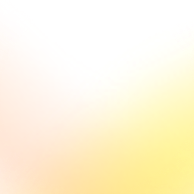
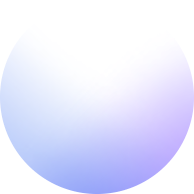
优化进度环颜色自然过渡、装饰弧两端淡出、失败态红块高度折叠到单行

diff --git a/index.html b/index.html
@@ -46,7 +46,7 @@
     width: 750px;
     height: 422px;
     left: 0;
-    top: 442px;
+    top: 544px;
     object-fit: cover;
     background: #000;
   }
@@ -262,8 +262,8 @@
 
   /* 互动标题横幅 */
   .interact-title {
-    width: 622px;
-    left: 64px;
+    width: 750px;
+    left: 0;
     top: 903px;
     padding: 16px 24px;
     box-sizing: border-box;
@@ -289,11 +289,14 @@
     font-size: 34px;
     font-weight: 500;
     line-height: 46px;
-    transition: opacity 300ms ease;
+    min-height: 0;
+    max-height: 200px;
+    overflow: hidden;
+    transition: opacity 300ms ease, max-height 300ms ease;
   }
   .it-orig { opacity: 1; }
   .it-fail { opacity: 0; }
-  .interact-title.fail .it-orig { opacity: 0; }
+  .interact-title.fail .it-orig { opacity: 0; max-height: 0; }
   .interact-title.fail .it-fail { opacity: 1; }
 
   /* 长按组件 */
@@ -347,8 +350,8 @@
     top: 14.375px;
     border-radius: 50%;
     background: conic-gradient(from var(--start),
-        rgba(255, 219, 187, 0.30) 0deg,
-        rgba(255, 219, 187, 0.30) var(--arc),
+        rgba(255, 255, 255, 0.12) 0deg,
+        rgba(255, 255, 255, 0.12) var(--arc),
         transparent var(--arc));
     -webkit-mask: radial-gradient(farthest-side, transparent calc(100% - var(--ring)), #000 calc(100% - var(--ring)));
             mask: radial-gradient(farthest-side, transparent calc(100% - var(--ring)), #000 calc(100% - var(--ring)));
@@ -364,13 +367,21 @@
     left: 27.375px;
     top: 14.375px;
     border-radius: 50%;
+    /* 颜色渐变位置固定在整条半圆上（起浅→中蓝→末紫），进度只控制"露出"多少，蓄力时颜色自然过渡 */
     background: conic-gradient(from var(--start),
-        #FFF3DC 0deg,
-        #FFE895 calc(var(--arc) * var(--progress) * 0.66),
-        #FF8A14 calc(var(--arc) * var(--progress)),
-        transparent calc(var(--arc) * var(--progress)));
-    -webkit-mask: radial-gradient(farthest-side, transparent calc(100% - var(--ring)), #000 calc(100% - var(--ring)));
-            mask: radial-gradient(farthest-side, transparent calc(100% - var(--ring)), #000 calc(100% - var(--ring)));
+        #DEE3EF 0deg,
+        #4877EF calc(var(--arc) * 0.5),
+        #884DFF var(--arc),
+        transparent var(--arc));
+    /* 双层遮罩：conic 控制进度露出到 --progress，radial 裁出环形，二者取交集 */
+    -webkit-mask:
+        conic-gradient(from var(--start), #000 0deg, #000 calc(var(--arc) * var(--progress)), transparent calc(var(--arc) * var(--progress))),
+        radial-gradient(farthest-side, transparent calc(100% - var(--ring)), #000 calc(100% - var(--ring)));
+    -webkit-mask-composite: source-in;
+            mask:
+        conic-gradient(from var(--start), #000 0deg, #000 calc(var(--arc) * var(--progress)), transparent calc(var(--arc) * var(--progress))),
+        radial-gradient(farthest-side, transparent calc(100% - var(--ring)), #000 calc(100% - var(--ring)));
+            mask-composite: intersect;
     opacity: 0;            /* 进度条1 初始透明度 0，蓄力时显现 */
     transition: none;
   }
@@ -821,9 +832,9 @@
 
       <!-- 长按组件 -->
       <div class="abs longpress" id="longpress">
-        <div class="abs lp-decor"><img class="abs" src="assets/longpress/decor-arc.svg" alt="" /></div>
+        <div class="abs lp-decor"><img class="abs" src="assets/longpress/decor-arc.svg?v=3" alt="" /></div>
         <div class="abs lp-track"></div>
-        <div class="abs lp-halo1"><img class="abs" src="assets/longpress/halo-bg.png" alt="" /></div>
+        <div class="abs lp-halo1"><img class="abs" src="assets/longpress/halo-bg.png?v=2" alt="" /></div>
         <div class="abs lp-progress" id="lpProgress"></div>
         <div class="abs lp-slider" id="lpSlider"></div>
         <!-- 中心钮（Figma 层：Ellipse + 背景 + 星光 + 内阴影 + 文案；热区 194×194 居中于 294×294） -->
@@ -831,9 +842,9 @@
           <div class="abs lp-btn-plate"></div>
           <div class="abs lp-btn-core">
             <div class="abs lp-btn-ellipse"></div>
-            <div class="abs lp-btn-bg-wrap"><img class="lp-btn-bg-img" src="assets/longpress/btn-bg.png" alt="" /></div>
+            <div class="abs lp-btn-bg-wrap"><img class="lp-btn-bg-img" src="assets/longpress/btn-bg.png?v=2" alt="" /></div>
             <img class="abs lp-btn-shadow" src="assets/longpress/btn-inner-shadow.svg" alt="" />
-            <div class="abs lp-sparkles-wrap"><img class="lp-sparkles-img" src="assets/longpress/btn-sparkle.png" alt="" /></div>
+            <div class="abs lp-sparkles-wrap"><img class="lp-sparkles-img" src="assets/longpress/btn-sparkle.png?v=2" alt="" /></div>
           </div>
           <div class="abs lp-btn-text"><img class="lp-btn-label" src="assets/longpress/btn-label.svg" alt="点击长按" /></div>
         </div>

diff --git a/README.md b/README.md
@@ -144,14 +144,14 @@ function tick(ts) {
 | ├ 背景 | `.lp-btn-bg`(wrap+img) | Figma `btn-bg.png`，**常驻缩放呼吸 + 中心旋转** |
 | ├ 内阴影 | `.lp-btn-shadow` | Figma `btn-inner-shadow.svg`，圆内暗边 |
 | └ 星光 | `.lp-sparkles`(wrap+img) | Figma `btn-sparkle.png`，**常驻缩放/透明度呼吸**，`brightness(1.5)` 提亮 |
-| 文案 | `.lp-btn-text` | `点击/长按`，字体 `MF DianHei` 36px、字距 7px，flex 居中于内芯 |
+| 文案 | `.lp-btn-text` | Figma 文字 SVG（`btn-label.svg`，字体已转矢量路径，跨设备一致），flex 居中于内芯 |
 
 **常驻动效**（进入互动态即一直运行，与蓄力状态无关）：
 ```css
 /* 背景：外层 wrap 呼吸缩放，内层 img 中心旋转，两者叠加 */
 .lp-btn-bg-wrap { animation: lp-btn-bg-breathe 2.4s ease-in-out infinite; }
 @keyframes lp-btn-bg-breathe { 0%,100% { transform: scale(1); } 50% { transform: scale(2); } }
-.lp-btn-bg-img  { animation: lp-btn-bg-spin 8s linear infinite; }
+.lp-btn-bg-img  { animation: lp-btn-bg-spin 6s linear infinite; }
 @keyframes lp-btn-bg-spin { to { transform: rotate(360deg); } }
 /* 星光：缩放 + 透明度呼吸 */
 .lp-sparkles-wrap { animation: lp-sparkles-breathe 2.8s ease-in-out infinite; }
@@ -233,7 +233,7 @@ function tick(ts) {
 |------|------|------|------|
 | 进入互动态（组件淡入/缩放） | 300ms | ease | 长按组件 `scale(0.86→1)` + 淡入；底部文案/操作栏淡出 |
 | 中心钮背景呼吸缩放 | 2.4s | ease-in-out | `scale(1↔2)`，圆内裁切 |
-| 中心钮背景旋转 | 8s | linear | 背景图中心匀速旋转 |
+| 中心钮背景旋转 | 6s | linear | 背景图中心匀速旋转 |
 | 中心钮星光呼吸 | 2.8s | ease-in-out | `scale(0.85↔1.1)` + 透明度 `0.45↔1` |
 | 蓄力进度增长 | 约 800ms | 线性(rAF) | 半圆进度环 sweep `0→1` |
 | 蓄力回落 | 约 1200ms | 线性(rAF) | 松手后进度回落 `→0` |
@@ -269,6 +269,7 @@ ai互动短剧/
     │   ├── btn-bg.png             # 中心钮背景暖晕
     │   ├── btn-inner-shadow.svg   # 中心钮内阴影
     │   ├── btn-sparkle.png        # 中心钮星光
+    │   ├── btn-label.svg          # 「点击长按」文字（矢量，跨设备一致）
     │   └── close-ring.svg / close-cross.svg  # 关闭按钮
     ├── particles/             # 成功炸裂粒子素材（星星 / 圆点簇）
     ├── drama-card/            # 短剧卡素材（封面 / 背景 / 图标 / 遮罩）
@@ -307,7 +308,7 @@ python3 -m http.server 8899
 | 失败阈值 | `release()` | `0.05` | 判定失败的最小蓄力量 |
 | 失败持续 | `showFail()` | `1000` | 失败提示停留时长 |
 | 背景呼吸 | `lp-btn-bg-breathe` | `scale 1↔2` / `2.4s` | 中心钮背景缩放呼吸 |
-| 背景旋转 | `lp-btn-bg-spin` | `8s` | 中心钮背景旋转周期 |
+| 背景旋转 | `lp-btn-bg-spin` | `6s` | 中心钮背景旋转周期 |
 | 星光呼吸 | `lp-sparkles-breathe` | `2.8s` | 星光缩放/透明度呼吸 |
 | 进度块几何 | `updateSlider()` | 中心 `(170,157)`、`R=127` | 进度块沿半圆环的运动参数 |
 | 粒子数/位置 | `spawnBurst()` | 9 个 | 星星+圆点簇布局 |